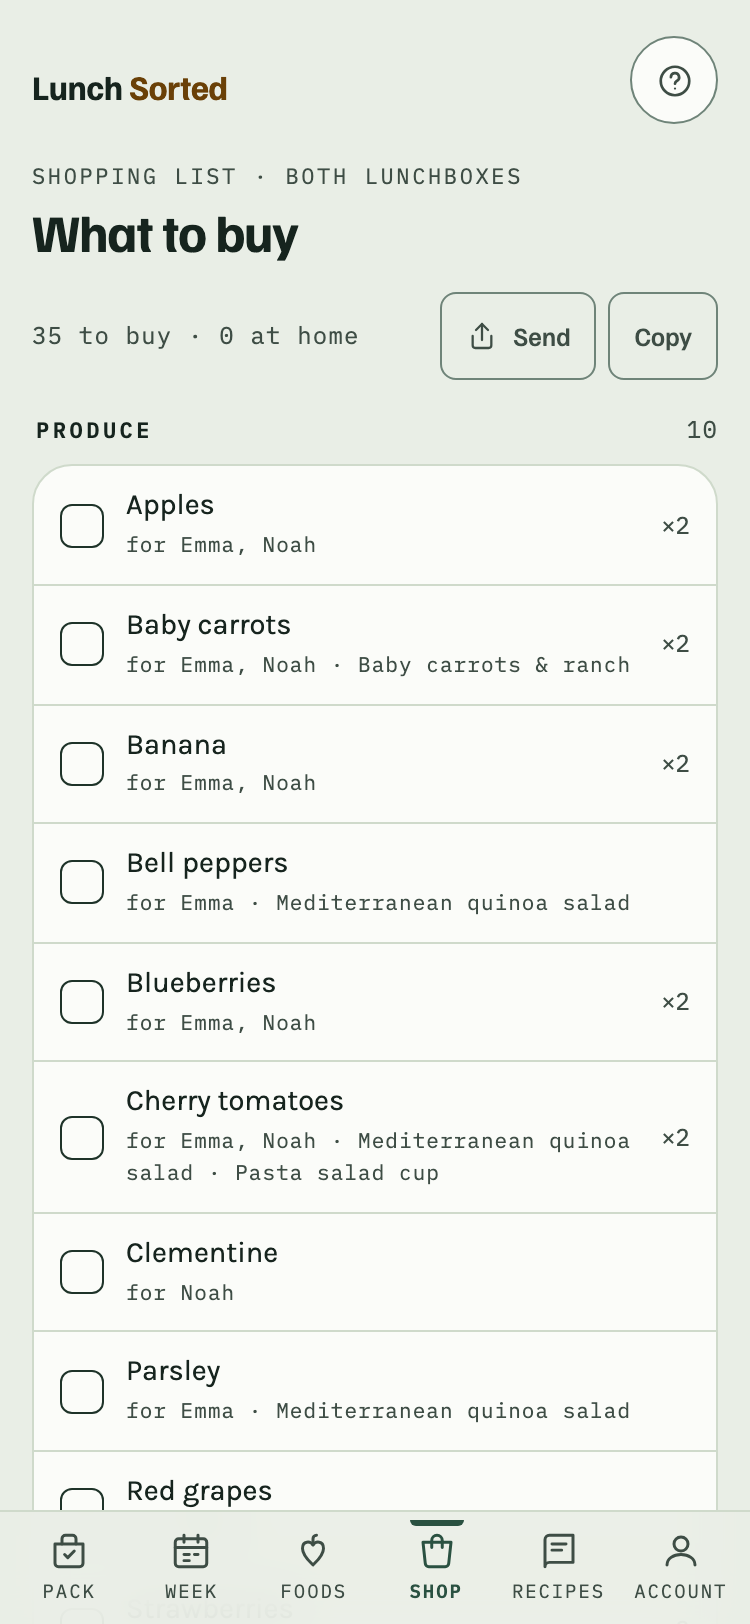
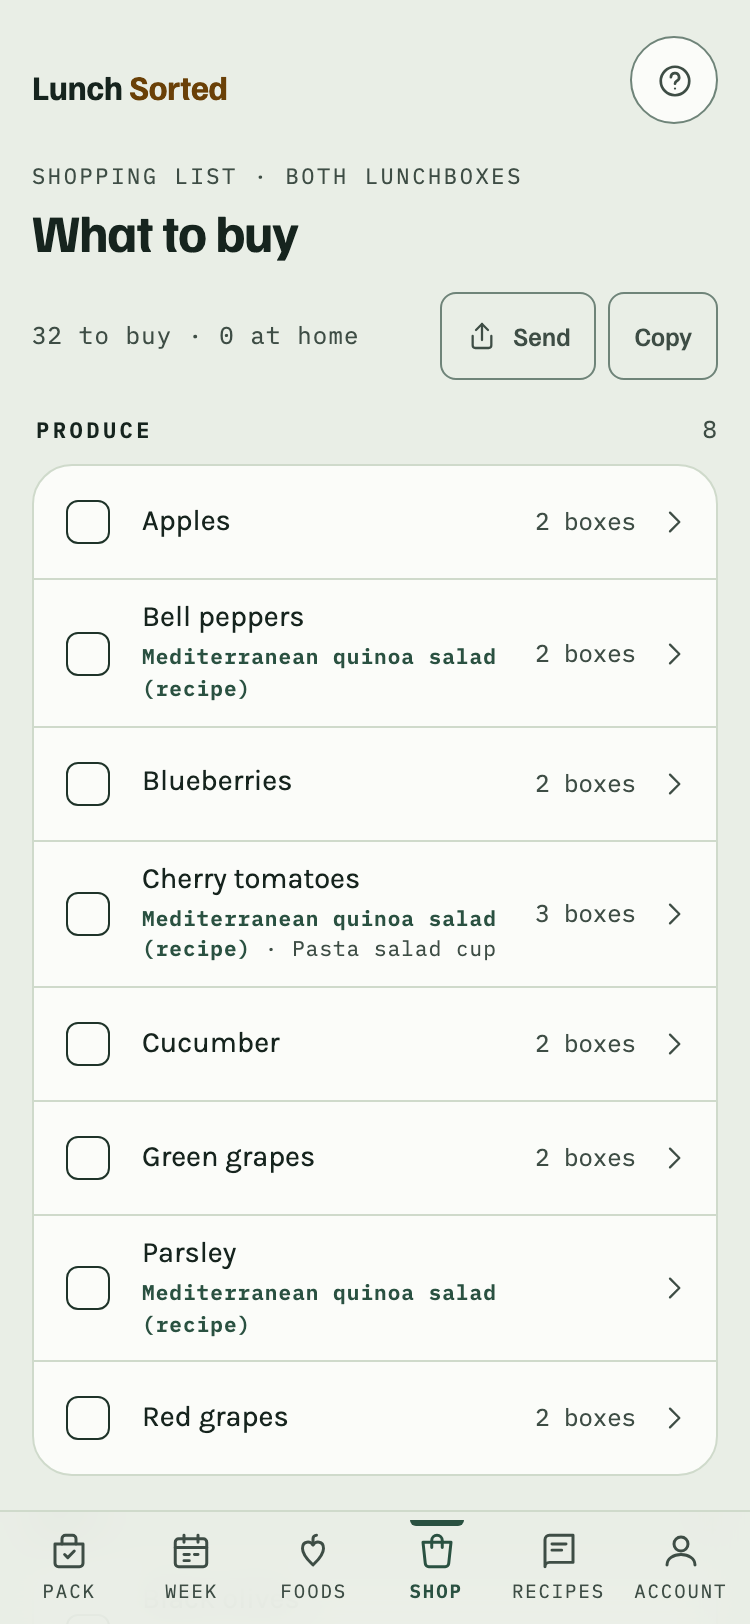
What the four reviewers found in the Shop milestone
Plan next week from Shop settles the week per lunchbox inside one aligned draw — the week
after for a box whose plan still has days in it, the coming week for a box whose plan has
gone by — so two boxes with different last pack days never end up a week apart, and the plan
can be taken back. The over state is for a plan whose successor lands next Monday; a plan
that is simply old on a Tuesday gets the same Plan the week the other tabs offer. Already at
home in the line's sheet closes the sheet, and the struck line behind it is the answer. The
compartment sheet reached from the household's list says whose box it is, and so does the
pick's toast. "3 boxes" counts a kid on a day once. The recipe button is named for its
recipe, sits under Already at home, and opens for a dish off the list but still in a box;
the mark on the line reads as a mark, in the accent, and the text a parent sends names no
recipe. The check's spoken name is the thing; a caretaker gets no check to be refused on and
no Plan next week. The help sheet, help.html, the site's Shop sentence and alt text, the v25
What's new (a step and a fifth clause) and the marketing screenshots follow. Nothing in the
efficiency review needed a change: every path measures well under a millisecond per render.

diff --git a/public/app/index.html b/public/app/index.html
@@ -224,6 +224,7 @@ a.btn{text-decoration:none}
 .item button.grow{align-self:stretch;justify-content:center;text-align:left;background:none;border:0;padding:0;font:inherit;color:inherit;cursor:pointer}
 .item .nm{display:block;font-size:14.5px;line-height:1.3}
 .item .meta{display:block;font-family:var(--f-mono);font-size:10.5px;color:var(--ink-2);letter-spacing:.05em}
+.item .meta .rcp{color:var(--accent);font-weight:700}
 .item .go{flex:none;display:inline-flex;align-items:center;color:var(--ink-3)}
 /* the day the kid's pick lands on carries the plan tag and the pick button; on a phone
    they are wider than the space left beside the day's foods, so they take a line of
@@ -1939,7 +1940,7 @@ var DEVICE = {memberId:null};          /* device-local, not part of the account 
    theme's borders brought over 3:1 ship in the same build without a line: nothing gained or lost.
    Check what production is actually serving before deciding a build has not been seen —
    this comment said v17 long after v20 had shipped, and a reviewer believed it. */
-var WHATS_NEW = {build:'lunchsorted-v25', text:'New: lock the days that worked and plan the rest again, write tonight\u2019s leftovers straight into tomorrow\u2019s box, hand the phone over once to let them pick the whole week, and tell it when the box comes home.',
+var WHATS_NEW = {build:'lunchsorted-v25', text:'New: lock the days that worked and plan the rest again, write tonight\u2019s leftovers straight into tomorrow\u2019s box, hand the phone over once to let them pick the whole week, tell it when the box comes home, and tap a shopping line to see which boxes it is for.',
   steps:[
     ['Lock what worked', 'Plan the week plans the whole week again. Every day on Week has a lock: tap it and Plan the week leaves that day alone; the arrows beside it shuffle just that day. The lock on a compartment\u2019s sheet holds one compartment, and shows on the tin. A food you pick by hand is locked where you put it, and the toast says so.'],
     ['A smaller tin', 'Each compartment is the food and a small mark where there is something to know: a snowflake for keep cold, a lidded box for a sealed container, a pencil for something you wrote in, a ! for a rule you overruled. Tap it for the rest, including what goes well with the main.'],
@@ -1949,7 +1950,8 @@ var WHATS_NEW = {build:'lunchsorted-v25', text:'New: lock the days that worked a
     ['One line, not a form', 'A write-in asks for the name and nothing else \u2014 at six in the morning that is all there is time for. So the name is all we can check it against: if it trips a rule it goes in flagged, but nuts or dairy hiding inside \u201cleftover pasta\u201d are yours to catch. The compartment carries a pencil and the day says Written in, so you can see which ones are yours.'],
     ['The whole week in one sitting', 'With \u201cThey pick their box each day\u201d on, Week carries Let them pick the week. They choose the next box, then the one after, until there is nothing left to hold up against anything. Each tap saves as it happens, so stopping halfway keeps what they picked.'],
     ['Still one box in the morning', 'Pack keeps the single-box version, where it has always been, for the day you would rather ask on the day. And a compartment you wrote in yourself never trades \u2014 Monday\u2019s leftovers would not keep till Thursday.'],
-    ['When the box comes home', 'Each lunchbox says when its box is home \u2014 three o\u2019clock unless you say otherwise, in the lunchbox settings \u2014 and the question about it, the dot on Pack and the reminder wait for that time. A fourth answer under each food, Didn\u2019t get to it, counts for nothing. Answer later folds the question to a line that waits, and yesterday\u2019s waits behind today\u2019s instead of being lost.']
+    ['When the box comes home', 'Each lunchbox says when its box is home \u2014 three o\u2019clock unless you say otherwise, in the lunchbox settings \u2014 and the question about it, the dot on Pack and the reminder wait for that time. A fourth answer under each food, Didn\u2019t get to it, counts for nothing. Answer later folds the question to a line that waits, and yesterday\u2019s waits behind today\u2019s instead of being lost.'],
+    ['One line a thing on Shop', 'Each shopping line is the thing to buy, with how many boxes it is for beside it, and the dish it goes into underneath when that dish is more than one thing. Tap the check when it is already at home; tap the line and a sheet says which boxes it is for, each a way into that box. Send and Copy carry the same list, and once every box of the week is home, Shop shows next week\u2019s.']
   ]};
 var SYNC_OWED = false;              /* choices made behind the kid's screen, not yet pushed */
 var SEEN_KEY = 'lunchsorted-seen';
@@ -3130,9 +3132,12 @@ function planAll(subset, ahead){
   var map = null, swaps = 0, total = 0;
   prunePantry();
   order.forEach(function(k){
-    planWeek(k, k === lead ? null : map, ahead).forEach(function(c){ short[c] = 1; });
-    if(k === lead) map = alignMap(k, ahead);
-    else if(map){ var o = offMap(k, map, ahead); swaps += o.off; total += o.total; }
+    /* "next week" for a box whose plan still has days in it is the week after; for a box whose
+       plan has gone by, a fresh plan already anchors to the coming Monday, so it is the plain plan */
+    var ak = !!(ahead && k.week && !weekIsStale(k));
+    planWeek(k, k === lead ? null : map, ak).forEach(function(c){ short[c] = 1; });
+    if(k === lead) map = alignMap(k, ak);
+    else if(map){ var o = offMap(k, map, ak); swaps += o.off; total += o.total; }
   });
   return {short:Object.keys(short), boxes:ready.length, aligned:!!lead, swaps:swaps, total:total};
 }
@@ -3454,8 +3459,8 @@ function shoppingList(ahead){
           : [{name:f.n, aisle:f.a||'other', dish:null}];
         parts.forEach(function(pt){
           var key = normKey(pt.name);
-          var r = rows[key] || (rows[key] = {key:key, name:pt.name, aisle:pt.aisle, qty:0, forKids:[], dishes:[], uses:[], recipe:null, off:false});
-          r.qty++;
+          var r = rows[key] || (rows[key] = {key:key, name:pt.name, aisle:pt.aisle, qty:0, forKids:[], dishes:[], uses:[], recipe:null, off:false, boxes:nullMap()});
+          if(!r.boxes[k.id+'|'+d.d]){ r.boxes[k.id+'|'+d.d] = 1; r.qty++; }   /* one box is one kid on one day, however many parts of it want the thing */
           if(offList(f)) r.off = true;   /* bought for a box that holds a food no longer on the list */
           if(r.forKids.indexOf(k.name)<0) r.forKids.push(k.name);
           if(pt.dish && r.dishes.indexOf(pt.dish)<0) r.dishes.push(pt.dish);
@@ -4098,36 +4103,40 @@ function viewWeek(){
    left the list; whose box it is for waits in the line's sheet, one row a box */
 function shopMeta(r){
   var bits = [];
-  var dish = dishWords(r.dishes.map(function(d){ return r.recipe && r.recipe.n === d ? d+' \u00b7 recipe' : d; })); if(dish) bits.push(dish);
+  var dish = dishWords(r.dishes.map(function(d){ return r.recipe && r.recipe.n === d ? '\u0001'+d+'\u0002' : d; }));
+  if(dish) bits.push(dish);
   if(r.off) bits.push('off the list, still in the box');
-  return bits.length ? '<span class="meta">'+esc(bits.join(' · '))+'</span>' : '';
+  if(!bits.length) return '';
+  /* the dish with a recipe is marked in the accent, and says so, so it never reads as one more dish */
+  return '<span class="meta">'+esc(bits.join(' · ')).replace(/\u0001([^\u0002]*)\u0002/g, '<span class="rcp">$1 (recipe)</span>')+'</span>';
 }
 /* one shopping line: the check on the left, the rest opens the line's sheet */
 function shopLine(r, when){
   return '<div class="item shopline'+(r.have ? ' done' : '')+'">'
-    + '<button class="checkhit" data-act="have" data-key="'+esc(r.key)+'" data-when="'+when+'" aria-pressed="'+(!!r.have)+'" aria-label="'+esc(r.name)+(r.have ? ': at home. Put it back on the list' : ': check it off, it is at home')+'"><span class="box">'+svg('check',12)+'</span></button>'
+    + (isHelper() ? '<span class="checkhit" aria-hidden="true"><span class="box">'+svg('check',12)+'</span></span>'
+      : '<button class="checkhit" data-act="have" data-key="'+esc(r.key)+'" data-when="'+when+'" aria-pressed="'+(!!r.have)+'" aria-label="'+esc(r.name)+' at home"><span class="box">'+svg('check',12)+'</span></button>')
     + '<button class="linebody" data-act="line-open" data-key="'+esc(r.key)+'" data-when="'+when+'"><span class="grow"><span class="nm">'+esc(r.name)+'</span>'+shopMeta(r)+'</span>'
     + '<span class="qty">'+(r.qty > 1 ? r.qty+' boxes' : '')+'</span><span class="go">'+svg('chev',16)+'</span></button></div>';
 }
 /* the same line in the text a parent sends or copies: the thing, how many boxes, the dish when it is more than one thing */
 function lineWords(r){
-  return r.name+(r.qty > 1 ? ' ('+r.qty+' boxes)' : '')+(r.dishes.length ? ' \u2014 '+r.dishes.map(function(d){ return r.recipe && r.recipe.n === d ? d+' (recipe)' : d; }).join(', ') : '');
+  return r.name+(r.qty > 1 ? ' ('+r.qty+' boxes)' : '')+(r.dishes.length ? ' \u2014 '+r.dishes.join(', ') : '');
 }
 /* which boxes a line is for, each a way into that compartment; the recipe if the dish has one;
    and the check, at the foot, for the parent who came to say it is already at home */
 function lineSheet(key, when){
   var next = when === 'next', r = shoppingList(next).filter(function(x){ return x.key === key; })[0]; if(!r) return;
-  var many = kids().length > 1, n = r.uses.length;
+  var many = kids().length > 1, n = r.qty;
   var h = '<p class="hint" style="margin:0">In '+n+(n === 1 ? ' box' : ' boxes')+(next ? ' next week.' : ' this week.')+(isHelper() ? '' : ' Changing a box changes the list.')+'</p><div class="list">';
   r.uses.forEach(function(u){
-    var c = ALL_CATS.filter(function(x){ return x.k === u.cat; })[0], k = kidById(u.kidId), f = k && foodById(k, u.foodId);
+    var c = ALL_CATS.filter(function(x){ return x.k === u.cat; })[0], k = kidById(u.kidId), f = k && boxFood(k, u.foodId);
     var inner = '<span class="ric" aria-hidden="true">'+(f ? iconFor(f) : '')+'</span><span class="grow"><span class="nm">'+(many ? esc(u.kid)+' \u00b7 ' : '')+esc(dayLabel(u.d).full)+' \u00b7 '+esc(u.food)+'</span><span class="meta">'+esc(c ? c.label : '')+'</span></span>';
     h += isHelper() ? '<div class="item">'+inner+'</div>'
       : '<button class="item" data-act="slot" data-kid="'+esc(u.kidId)+'" data-day="'+esc(u.d)+'" data-cat="'+esc(u.cat)+'">'+inner+'<span class="go">'+svg('chev',16)+'</span></button>';
   });
   h += '</div>';
-  if(r.recipe) h += '<button class="btn ghost wide" data-act="cook" data-kid="'+esc(r.recipe.kidId)+'" data-id="'+esc(r.recipe.foodId)+'">'+svg('book',15)+'Open the recipe</button>';
-  if(!isHelper()) h += '<button class="btn wide'+(r.have ? ' primary' : '')+'" data-act="have" data-key="'+esc(r.key)+'" data-when="'+(next ? 'next' : 'now')+'" data-close="1" aria-pressed="'+(!!r.have)+'">'+svg('check',15)+(r.have ? 'At home \u2014 put it back on the list' : 'Already at home')+'</button>';
+  if(!isHelper()) h += '<button class="btn wide'+(r.have ? '' : ' primary')+'" data-act="have" data-key="'+esc(r.key)+'" data-when="'+(next ? 'next' : 'now')+'" data-close="1" aria-pressed="'+(!!r.have)+'">'+(r.have ? 'Put it back on the list' : svg('check',15)+'Already at home')+'</button>';
+  if(r.recipe) h += '<button class="btn ghost wide" data-act="cook" data-kid="'+esc(r.recipe.kidId)+'" data-id="'+esc(r.recipe.foodId)+'">'+svg('book',15)+'Recipe for '+esc(r.recipe.n)+'</button>';
   openSheet(r.name, h);
 }
 /* every box of the week is behind us: the list has nothing left in it for this week */
@@ -4136,13 +4145,14 @@ function weekDone(){
   return kids().every(function(k){ if(!k.week) return true; any = true; return k.week.days.every(dayGone); }) && any;
 }
 function viewShop(){
-  var rows = shoppingList(), multi = kids().length>1, over = !rows.length && weekDone(), later = shoppingList(true);
+  var rows = shoppingList(), multi = kids().length>1, later = shoppingList(true);
+  var over = !rows.length && weekDone() && !kids().some(function(k){ return k.week && weekIsStale(k) && iso(anchorWeek(k)) === iso(weekStart(today())); });
   var h = '<div class="stack"><div><p class="view-sub">Shopping list'
     + (multi ? ' \u00b7 '+(kids().length === 2 ? 'both lunchboxes' : 'all '+kids().length+' lunchboxes') : '')+'</p><h2 class="view-title">What to buy</h2></div>';
   if(!rows.length && !(over && later.length))
     return h + (over
-      ? '<div class="empty"><p>This week&#8217;s boxes are done. Plan next week and the list builds itself.</p><button class="btn primary" data-act="plan-next">Plan next week</button></div></div>'
-      : '<div class="empty"><p>Plan a week and the list builds itself from the boxes.</p><button class="btn primary" data-act="plan-all">Plan the week</button></div></div>');
+      ? '<div class="empty"><p>This week&#8217;s boxes are done.'+(isHelper() ? '' : ' Plan next week and the list builds itself.')+'</p>'+(isHelper() ? '' : '<button class="btn primary" data-act="plan-next">Plan next week</button>')+'</div></div>'
+      : '<div class="empty"><p>Plan a week and the list builds itself from the boxes.</p>'+(isHelper() ? '' : '<button class="btn primary" data-act="plan-all">Plan the week</button>')+'</div></div>');
   if(!rows.length){ rows = later; later = []; }              /* the week is done and the next one is planned: its list is the list */
 
   var toBuy = rows.filter(function(r){ return !r.have; }).length;
@@ -4769,7 +4779,7 @@ function slotSheet(kidId, dayStr, cat){
     });
     h += '</div>';
   }
-  openSheet(dayLabel(dayStr).full+' · '+c.label, h);
+  openSheet((kids().length > 1 ? kid.name+' \u00b7 ' : '')+dayLabel(dayStr).full+' \u00b7 '+c.label, h);   /* from Shop nothing else says whose */
 }
 /* One compartment, one day, one name. No aisle, no tags, no allergens: a parent
    improvising at the counter has one thing to say and the app should ask for one
@@ -5294,7 +5304,7 @@ function cookStart(r, name, foodId, kidId, cat){
   cookSheet();
 }
 function cookOpen(kidId, foodId){
-  var k = kidById(kidId) || activeKid(), f = k && foodById(k, foodId), r = recipeFor(f);
+  var k = kidById(kidId) || activeKid(), f = k && boxFood(k, foodId), r = recipeFor(f);   /* a dish off the list but still in a box still cooks */
   if(!f || !r) return;
   cookStart(r, f.n, f.id, k.id, f.c);
 }
@@ -5494,7 +5504,7 @@ function helpSheet(fromSupport){
     ['Can I bring a recipe in from somewhere else?', 'Recipes → Import a recipe. Paste the address of a recipe page and the app reads it for you, which needs you signed in because the reading happens on our server. A reel or a pin has no recipe to read — copy the words under it and paste those in, which never leaves the phone. It is kept on the Recipes tab; putting it on a lunchbox’s food list is offered after. Keeping one of your own is part of the Household plan.'],
     ['Can it walk me through cooking one?', 'Open a recipe and tap Cook it step by step. One step fills the screen, and What you need under it lists only what that step needs, with a box to check as each one goes in. The whole recipe is one tap away at the top. Nothing you check is saved, so it never reaches the other parent’s phone.'],
     ['Can I see it in grams, or in cups?', 'Open a recipe and tap Metric — or US, for one that came in written in grams; it converts both ways. A cup of flour is weighed in grams, broth is poured in milliliters, the oven carries its Celsius, and a spoonful of salt is left as a spoonful. The + and − make more or less and scale every amount.'],
-    ['Where does the shopping list come from?', 'Every planned box, as what to buy, by aisle, one line a thing. Tap a line to see which boxes it is for. Copy it, or Send it to Notes, Reminders or a text \u2014 the same list either way.'],
+    ['Where does the shopping list come from?', 'Every planned box, as what to buy, by aisle, one line a thing, with how many boxes it is for beside it. Tap the check when it is already at home; tap the line to see which boxes it is for. Copy it, or Send it to Notes, Reminders or a text \u2014 the same list either way. Once every box of the week is home, Shop shows next week\u2019s list, or offers to plan it.'],
     ['I have more than one kid — do I set it all up twice?', 'No. Add a lunchbox each. Plan the week gives them the same lunches where their own rules allow it, a food you add goes into every box unless you say otherwise, and Week and Foods carry a tab for each along the top — in the settings too; Pack puts both boxes on one screen.'],
     ['Can I plan the week after?', 'Yes. On Week, tap the \u203a beside the date, then Plan next week. Shop lists it under Next week, and it becomes this week on its own.'],
     ['Can I put in a food a rule says no to?', 'Yes. Tap the compartment, tap the food, and it goes in flagged with a “!”. The rule still applies whenever the week is planned.'],
@@ -5865,8 +5875,8 @@ document.addEventListener('click', function(ev){
      has today in it (Friday afternoon) that is the week after; once it is stale (the weekend) a
      fresh plan already anchors to the coming Monday, so "next week" is the plain plan. */
   if(act==='plan-next'){
-    var staleN = kids().every(function(k){ return !k.week || weekIsStale(k); });
-    if(staleN) planAllToast(); else planAllToast(kids().filter(function(k){ return !!k.week; }), null, true);
+    var snapN = snapshotWeeks(kids());
+    planAllToast(null, function(){ restoreWeeks(snapN); }, true);   /* planAll settles this week or next per lunchbox */
     return;
   }
   if(act==='shuffle-day'){
@@ -5935,7 +5945,7 @@ document.addEventListener('click', function(ev){
     var undo6 = slotUndo(k6, day6, cat6, was6, wi6);
     if(v6) toast(f6.n+' is in the box, locked \u2014 '+v6+', so it stays flagged', undo6);
     else if(wi6) toast(wi6.n+' took the write-in\u2019s place, locked', undo6);
-    else toast(dayLabel(day6.d).full+': '+f6.n+' \u2014 locked', undo6);
+    else toast((kids().length > 1 ? k6.name+'\u2019s ' : '')+dayLabel(day6.d).full+': '+f6.n+' \u2014 locked', undo6);
     return;
   }
   if(act==='write-in'){
@@ -6036,6 +6046,7 @@ document.addEventListener('click', function(ev){
     /* one pantry row, so a food on both weeks’ lists ticks in both places: the tap goes
        back to the week it came from, not to whichever row the list drew first */
     var when = el.getAttribute('data-when');
+    if(el.getAttribute('data-close')) closeSheet();      /* from the line's sheet: the struck line behind it is the answer */
     save(); render();
     focusBack(document.getElementById('view'), 'have', {'data-key':key, 'data-when':when});
     return;

diff --git a/public/help.html b/public/help.html
@@ -173,7 +173,7 @@ strong{color:var(--ink)}
 <p>No. Shuffling one lunchbox, or swapping one compartment, changes that lunchbox only. Once you have changed a box on purpose, nothing drags the others along. To match them all up again, tap Plan the week on Week and leave every box checked.</p>
 
 <h2>Where does the shopping list come from?</h2>
-<p>Every planned box, as what to buy: a turkey and cheese pinwheel goes on the list as deli turkey, cheese slices and tortillas, grouped by aisle, one line a thing. A line says how many boxes it is for when that is more than one, and names the dish it goes into only when the dish is more than one thing &mdash; grapes are a line with nothing under them. Tap the check to say the pantry already has it. Tap the line itself and a sheet says which boxes it is for, each a way into that compartment, with the recipe when the dish has one and <strong>Already at home</strong> at the foot. <strong>Copy</strong> puts the list on the clipboard; on a phone, <strong>Send</strong> opens the share sheet, so it can go to Notes, Reminders or a text &mdash; the same list, word for word. Once every box of the week has gone, Shop shows next week&rsquo;s list, or offers to plan it.</p>
+<p>Every planned box, as what to buy: a turkey and cheese pinwheel goes on the list as deli turkey, cheese slices and tortillas, grouped by aisle, one line a thing. A line says how many boxes it is for when that is more than one, and names the dish it goes into only when the dish is more than one thing &mdash; grapes are a line with nothing under them, and a dish that has a recipe says so. Tap the check to say the pantry already has it. Tap the line itself and a sheet says which boxes it is for, each a way into that compartment, with the recipe when the dish has one and <strong>Already at home</strong> at the foot. <strong>Copy</strong> puts the list on the clipboard; on a phone, <strong>Send</strong> opens the share sheet, so it can go to Notes, Reminders or a text &mdash; the same list, word for word. Once every box of the week has gone, Shop shows next week&rsquo;s list, or offers to plan it.</p>
 
 <h2>How does packing work?</h2>
 <p>Pack shows the next school day’s box with a flag when it needs an ice pack, a sealed container, or is missing protein. One check marks the box packed. With two kids both boxes are on the screen, the second folded to one line until you tap it; from three, one box at a time with a tab for each along the top, and a line underneath says how many are ready and names who is still to pack. Under the boxes, <strong>Coming up</strong> lists the rest of the week, one line a day &mdash; the first box&rsquo;s first two foods and how many more, with either kid&rsquo;s pick on the day it lands. Tap a day to go to <strong>Week</strong>, which is where a box gets changed. If you pack the night before, say so under Account &rarr; Lunchboxes and from three o&rsquo;clock Pack shows tomorrow&rsquo;s box, the one you are packing. Once the box is home &mdash; three o&rsquo;clock, or the time you set in the lunchbox settings &mdash; it asks what came home: one question open at a time, the other box&rsquo;s folded to a line you tap; from three lunchboxes, in that box&rsquo;s tab, with a ring on any other tab still owed. Tap <strong>Answer later</strong> and the question folds to a line that waits until you answer it. A dot on the Pack tab means an answer is owed, and the iPhone app can remind you once the box is home (switch it on under Account &rarr; Lunchboxes). From three, today&rsquo;s box is done: nothing changes it, and the shopping list drops it. What you say about a box is remembered against the food, and the next week leans toward what actually gets eaten. A food that comes home twice in a row goes on hold for three weeks, even when the other boxes are having it; Foods says until when.</p>

diff --git a/public/index.html b/public/index.html
@@ -279,7 +279,7 @@ footer a{color:var(--ink-2);white-space:nowrap}
           know why something stopped appearing. Add a snack or drink compartment if your school day needs one.</p></div>
       <div class="cmp"><span class="lab">Fruit</span>
         <h3>The shopping list writes itself</h3>
-        <p>Every planned box rolls into one list grouped by aisle, with quantities. Check off what the pantry
+        <p>Every planned box rolls into one list grouped by aisle: the thing to buy, how many boxes it is for, and the dish it goes into. Check off what the pantry
           already has and shop the rest. More than one kid? One list covers them all &mdash; and so does one
           plan: every box gets the same lunches, bar the kid whose rules say otherwise.</p></div>
       <div class="cmp"><span class="lab">Sweet</span>
@@ -308,7 +308,7 @@ footer a{color:var(--ink-2);white-space:nowrap}
     <div class="shots">
       <figure><picture><source type="image/webp" srcset="/img/screen-week.webp"><img src="/img/screen-week.png" width="375" height="812" loading="lazy" decoding="async" alt="Week view with a row of lunchbox names across the top, one selected, a Let Emma pick the week button under the date, and each school day drawn as a four-compartment box."></picture>
         <figcaption>The week</figcaption></figure>
-      <figure><picture><source type="image/webp" srcset="/img/screen-shop.webp"><img src="/img/screen-shop.png" width="375" height="812" loading="lazy" decoding="async" alt="One shopping list for the whole household, grouped by store aisle, each item showing which lunchboxes need it."></picture>
+      <figure><picture><source type="image/webp" srcset="/img/screen-shop.webp"><img src="/img/screen-shop.png" width="375" height="812" loading="lazy" decoding="async" alt="One shopping list for the whole household, grouped by store aisle: a check beside each thing to buy, how many boxes it is for, and under it the dish it goes into."></picture>
         <figcaption>The list</figcaption></figure>
       <figure><picture><source type="image/webp" srcset="/img/screen-pack.webp"><img src="/img/screen-pack.png" width="375" height="812" loading="lazy" decoding="async" alt="Pack view with two lunchboxes: Emma&#8217;s box as a four-cell tin with the Packed check on, a &#8220;Making it?&#8221; row naming the recipe for the main, Noah&#8217;s box folded to one line reading not packed, and Coming up, one line a day."></picture>
         <figcaption>The morning</figcaption></figure>

diff --git a/README.md b/README.md
@@ -144,12 +144,19 @@ throwing app script cannot leave it up forever. From there:
   check on the left (54×56, `have`) and the line itself, which opens a sheet (`lineSheet`) —
   "In 3 boxes this week. Changing a box changes the list.", a row per box into that
   compartment's sheet, "Open the recipe" when the dish has one, and "Already at home" at the
-  foot; a caretaker gets the rows without the ways in. **Copy** puts the list on the clipboard
+  foot (the recipe button under it, named for its recipe, and opening for a dish off the list but
+  still in a box); a caretaker gets the rows without the ways in and no check to be refused on.
+  "3 boxes" counts a kid on a day once, however many parts of that box want the thing. **Copy** puts the list on the clipboard
   and **Send** opens the phone's share sheet (Notes, Reminders, a text) where there is one, the
   browser's on the web and the Share plugin in the iPhone app; both carry the same text
   (`listText`, one line a thing by the same rule as the screen: "- Tortillas (3 boxes) — Turkey
-  wraps"). Once every box of the week has gone (`weekDone`), Shop shows next week's list in its
-  place, or offers **Plan next week** (`plan-next`) when there is none. A check is a pantry row, not a row on a list, and the pantry
+  wraps"; the text names no recipe, since nothing in a text can open one). Once every box of the
+  week has gone and the coming plan lands on next Monday (`weekDone`, Friday after three through
+  Sunday), Shop shows next week's list in its place, or offers **Plan next week** (`plan-next`,
+  with Undo); a plan that is simply old on a Tuesday gets the same "Plan the week" the other
+  tabs offer. Plan next week settles the week per lunchbox inside one aligned draw (`planAll`):
+  the week after for a box whose plan still has days in it, the coming week for a box whose plan
+  has gone by, so two boxes with different last pack days never end up a week apart. A check is a pantry row, not a row on a list, and the pantry
   is keyed by the food's name: a food on this week's list and next week's is one check, so
   checking it off under *Next week* crosses it off above as well, and takes it off both blocks of
   the copied list. That is the intent — a jar of peanut butter bought once is bought once —
